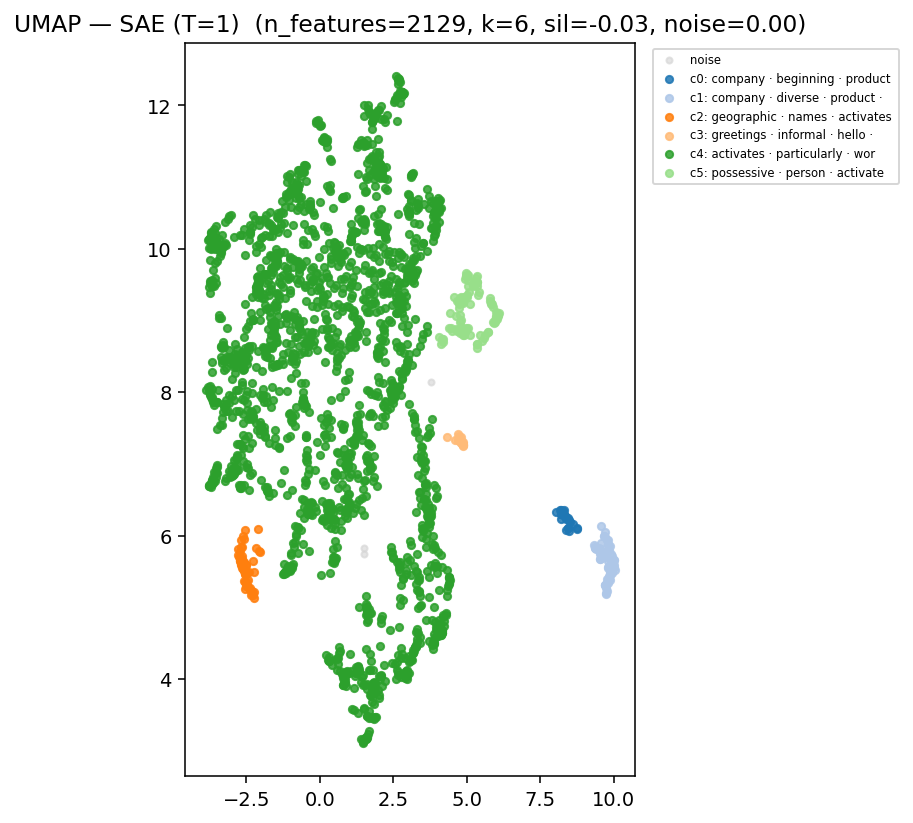
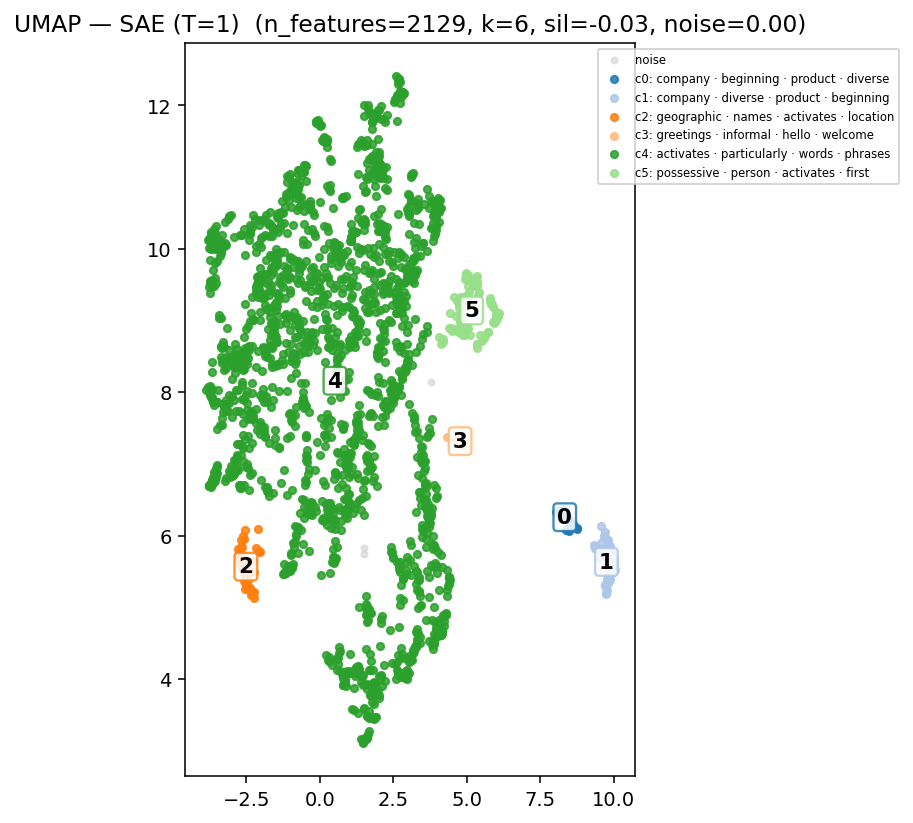
umap: untruncated cluster names + index labels on the scatter
- Drop the [:30] truncation on legend entries so the full lexical name
  ("c0: sexual · pornographic · adult · crude" etc.) shows in the
  legend.
- Annotate each non-noise cluster with its index at the cluster
  centroid, in a small white box bordered by the cluster's palette
  colour, so the map is self-readable without scanning the legend.

Outputs:
  safety_research/figures/umap_{sae,tsae,txc}.png — regenerated
  safety_research/results/umap_meta/ — coords/labels unchanged (same
    seed); summary.json refreshed.

diff --git a/safety_research/scripts/umap_meta.py b/safety_research/scripts/umap_meta.py
@@ -247,8 +247,25 @@ def run_arm(arm: str) -> dict | None:
         else:
             ax.scatter(proj[m, 0], proj[m, 1], s=14,
                        c=[palette[cid % len(palette)]],
-                       label=f"c{cid}: {cl_names.get(cid, '')[:30]}",
+                       label=f"c{cid}: {cl_names.get(cid, '')}",
                        alpha=0.85)
+
+    # Annotate each non-noise cluster with its index at its centroid so the
+    # map is readable without referring to the legend.
+    for cid in sorted(set(labels)):
+        if cid < 0:
+            continue
+        m = labels == cid
+        cx, cy = proj[m, 0].mean(), proj[m, 1].mean()
+        ax.text(
+            cx, cy, str(cid),
+            fontsize=11, fontweight="bold", ha="center", va="center",
+            color="black",
+            bbox=dict(boxstyle="round,pad=0.18", facecolor="white",
+                      edgecolor=palette[cid % len(palette)], alpha=0.85,
+                      linewidth=1.2),
+        )
+
     ax.set_title(f"UMAP — {ARM_DISPLAY.get(arm, arm)}  "
                  f"(n_features={len(texts)}, k={n_clusters}, "
                  f"sil={sil:.2f}, noise={noise_frac:.2f})")
